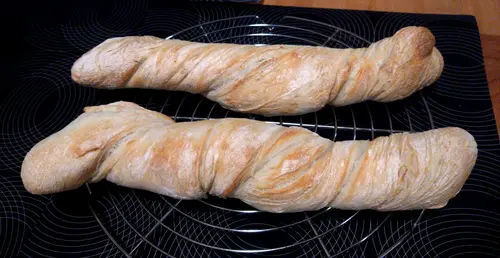
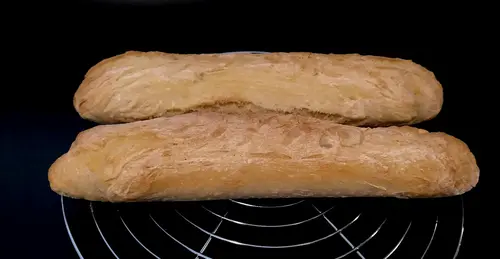
baguette updates

diff --git a/_recipes/baguette.md b/_recipes/baguette.md
@@ -5,26 +5,30 @@ image: baguette.webp
 category: BrotGebaeck
 
 images:
-  - image: ../images/baguette_mehlig.webp
-    description: Versuch 2 mit 2 Baguettes (400g Mehl Variante, 220°C ganze Zeit, kein Wasser drauf vorm Backen); war hell und außen zu knusprig aber ganz gut
-  - image: ../images/baguette_breit.webp
-    description: Versuch 3 mit einem großen Baguette (400g Mehl Variante, 230°C ganze Zeit); etwas flach und ähnlich wie Weißbrot aber gut
+  - image: ../images/baguette_gedreht.webp
+    description: Kein Baguetteblech, dafür eingedreht damit es die Form behält
   - image: ../images/baguette_mehlig_eingedreht.webp
-    description: Neue Variante mit Roggenmehl außen, 220°C Umluft, Wasser auf Blech darunter, nicht angesprüht. Kruste war perfekt, alles beibehalten außer evtl ansprühen weil es recht staubig war
+    description: Variante mit viel Roggenmehl außen, 220°C Umluft, Wasser auf Blech darunter, nicht angesprüht. Kruste war perfekt, alles beibehalten außer evtl ansprühen weil es recht staubig war
+  - image: ../images/baguette_knoblauch.webp
+    description: Knoblauchpaste - 60g Butter, 9g Knoblauch (3 Zehen) - 2g Kräutersalz, 7g Petersilie (zuerst Knoblauch zerkleinern, dann Rest dazu und zerkleinern - Butter zimmerwarm). kurz vorm fertigbacken rausnbehmen und bestreichen und neu rein. Baguettes 15min machen, einschneiden, bestreichen und 4min fertig machen (auf Backpapier)
+  - image: ../images/baguette_breit.webp
+    description: Einer der ersten Versuche mit einem großen Baguette (400g Mehl) war flach und ähnlich wie Weißbrot aber gut
 
 ingredients:
   - 400g Mehl [(Fini's Feinstes Weizenmehl Universal)](https://www.finis-feinstes.at/de/sortiment/mehle/index.aspx?detail=66&hl=Fini%E2%80%99s%20Feinstes%20Weizenmehl%20universal)
-  - 270ml lauwarmes Wasser
-  - 8,5g Salz (besser 9,5-10g probieren!)
+  - 270ml lauwarmes Wasser (bei Knoblauchbaguette +10ml genommen war super. evtl 300 testen?)
+  - 10g Salz
   - 2g Zucker
-  - 1/2 Hefewürfel (1/4 reicht dann geht es aber weniger auf)
+  - 1/4 Hefewürfel (nimmt man 1/2 reicht 1,5h Gehzeit aber es schmeckt etwas nach Hefe)
 
 directions:
   - Hefe, lauwarmes Wasser, Mehl, Salz und Zucker in Schüssel geben
   - Mit Küchenmaschine gut durchkneten (ca 2min Stufe 2, dann Teig in die Mitte putzen, danach 5min Stufe 3)
-  - Teig mit Teigkarte auf Blech mit Roggenmehl bemehltem Backpapier rausputzen, oben Mehl draufgeben und dann zurück in die Schüssel geben und zugedeckt 1,5h gehen lassen
-  - Nach Rastzeit, Backrohr vorheizen und ein volles Häferl heißes Wasser ins Backrohr stellen (besser Blech im Rohr warm werden lassen und wenn Baguette ins Rohr kommt Wasser bzw Eiswürfel auf Blech geben)
-  - Dann Teig vorsichtig wieder auf bemehltes Backpapier putzen, darauf etwas Mehl verteilen, in 2 Stücke zerteilen und beide Baguettes langsam länglich ausziehen und spiralförmig drehen (dadurch behalten sie die Form)
+  - Teig mit Teigkarte in Mitte putzen und zugedeckt 2h gehen lassen
+  - Nach Rastzeit, Backrohr vorheizen und ein volles Häferl heißes Wasser ins Backrohr stellen.
+  - Dann Teig vorsichtig wieder auf bemehltes Backpapier putzen, evtl darauf etwas Mehl verteilen, in 2 Stücke zerteilen und beide Baguettes langsam länglich ausziehen und spiralförmig drehen (dadurch behalten sie die Form) (oder auf ein bemehltes bzw eingefettetes Baguetteblech legen und 15min gehen lassen)
   - Wenn Backrohr vorgeheizt, Baguettes mit Wasser besprühen und ca 19min bei 220°C Umluft backen (darunter heißes Blech mit Wasser für Dampf)
   - Nach dem Herausnehmen nochmal reichlich mit Wasser besprühen
 ---
+
+mit baguetteblech weniger mehl nehmen und mit etwas öl einreiben
